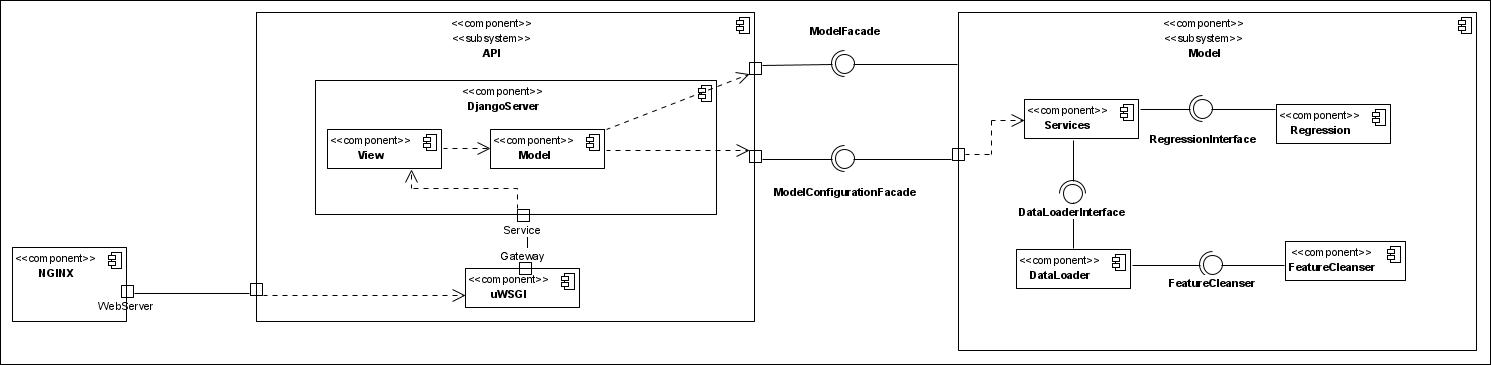
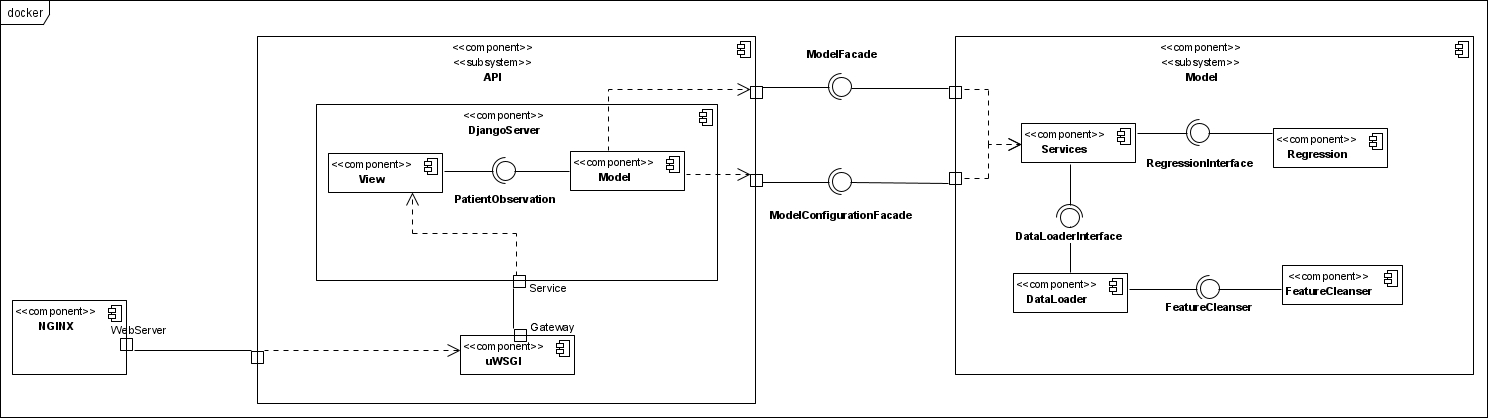
feat(read-me): add uml models to README.md

diff --git a/README.md b/README.md
@@ -1,1 +1,141 @@
-# Lab6-Docker
+# آزمایش ششم: استفاده از Docker
+## شرح آزمایش
+در این آزمایش قصد داریم نحوه کار با
+Docker
+به عنوان یک ابزار 
+Orchestration
+و
+Deployment
+را بیاموزیم. به این منظور یک نیازمندی تعریف کرده، و برای آن یک سیستم نرمافزاری میکروسرویس ایجاد میکنیم.
+
+## تحلیل نیازمندیها
+درمانگاهی یک مدل یادگیری ماشین روی دادههای دیابت بیماران درخواست کرده است.
+قرار است همه روزه نتیجه آزمایش چندین بیمار در این سیستم ثبت شود و سیستم در طول زمان به یادگیری دادههای بیماران ادامه دهد.\
+همچنین لازم است سیستم قابلیت پیشبینی نتیجه آزمایش بیمار را داشته باشد تا پزشکان درمانگاه گاها پیش از آماده شدن نتیجه اصلی آزمایش، از پیشبینی مدل یادگیری ماشین استفاده کنند.\
+تمام ارتباطات با این سیستم باید از طریق یک
+RESTfull API
+محقق شود و نیازی به طراحی و ایجاد یک کارخواهِ
+Front-End
+برای این سیستم نیست چرا که قرار است زیرسیستم
+Front-End
+برون سپاری شود. سیستم باید دارای یک load-balancer معقول باشد تا در زمانهای پیک مراجعین، دسترسی پذیری دچار آسیب نشود.
+## طراحی سیستم نرمافزاری
+به منظور ایجاد معماری سیستم از یک نگاه بالا به پایین
+(Top-Down)
+استفاده میکنیم. به این منظور ابتدا یک نمودار استقرار طراحی میکنیم سپس ذیل گرههای نمودار استقرار، نمودار مولفه سیستم را طراحی خواهیم کرد.\
+### نمودار استقرار
+ابتدا یک گره به منظور فراهم آوردن
+RESTfull API
+خواسته شده قرار میدهیم. این گره را پشتِ
+NGINX
+که یک
+Load-balancing WebServer
+قرار میدهیم.
+همچنین به منظور آنکه دادههای بیماران به صورت مانا
+(Persistent)
+حفظ شود، گرهی
+API
+را در ارتباط با یک دیتابیس
+PostgreSQL
+قرار میدهیم.
+
+
+![deployment diagram part 1](<./resources/deployment_diagram_pt1.png>)
+
+همانطور که قابل مشاهده است از گرهی
+API
+دو نسخه به صورت همزمان مستقر شده است و تقسیمکنندهی بارِ
+NGINX
+با سیاست 
+least_conn
+بار را بین این دو نسخه تقسیم میکند (طبق این سیاست، هر درخواست از کارگزار، به نسخهای داده میشود که در لحظه در حال خدمترسانی به تعداد کمتری درخواست باشد). همچنین این گرهی
+API
+با استفاده از چارچوب
+Django
+پیادهسازی شده است.\
+پس از آن، یک مدل یادگیری ماشین رگرسیون خطی نیاز است که دادههای بیماران را رفته رفته یاد گرفته و برای پیشبینی دیابت نیز استفاده شود.
+
+
+![deployment diagram part 2](./resources/deployment_diagram_pt2.png)
+این مدل با پایتون ایجاد شده است و نحوه خدمت گرفتن از آن از طریق یک واسطِ پیامِ
+RabbitMQ
+محقق میشود. به این شکل گرهی
+API
+با کمترین اتصالات
+(Coupling)
+با مدلِ یادگیری ماشین ارتباط خواهد گرفت.
+
+**در ادامه تصویر کلیِ نمودار استقرار را مشاهده خواهید کرد.**
+
+
+![deployment diagram](./resources/deployment_diagram.jpg)
+
+دو مولفهی زیرسیستم
+(Subsystem، به معنی بالا-رده ترین مولفهی نرمافزاری که روی گرهی استقرار میشیند. شایان توجه است که به دلیل ساختار تو در تو داشتن نمودار مولفه، چنین تعریفی کاربردی است.)
+که در نمودار استقرار قابل مشاهدهاند، زیرسیستم
+API
+و
+Model
+میباشند که آنها را در **نمودار مولفه** بررسی میکنیم.
+### نمودار مولفه
+
+در ادامه نمودار مولفه ایجاد شده ذکر میشوند که درک تدقیق شدهای از پیادهسازی سیستم نرمافزاری به ما میدهد.
+
+مولفهی مدل از زیرمولفههای زیر تشکیل شده است.
+- Regression: مدل رگرسیون که به منظور یادگیری دادههای دیابت استفاده خواهد شد.
+- DataLoader: مولفه بارگذاری داده روی مدلهای یادگیری ماشین.
+- FeatureCleanser: مولفه پاکسازی و تنظیم فیچرهای یادگیری ماشین.
+- Services: مولفهای که مولفههای دیگر را کنار هم میگذارد و خدمات مورد نیاز برای یادگیری و پیشبینی بیماران دیابتی را فراهم میآورد.
+
+این مولفه دو واسط برای خدمات گیری به نام
+ModelFacade
+و
+ModelConfigurationFacade
+ارائه میدهد. نمای اول به منظور درخواستِ یادگیری و پیشبینی مدل استفاده میشود و نمای دوم به منظور تنظیم
+Hyperparameter
+های مدل استفاده خواهد شد.\
+این نما
+(facade)
+ها با استفاده از پکیج
+[nameko](https://www.nameko.io/)
+ایجاد شدهاند و استفاده از متدهای آنها در واقع با روش
+RPC (Remote procedure call)
+و از طریق واسطِ پیامِ
+RabbitMQ
+ممکن خواهد بود.
+
+![component diagram part 1](./resources/component_diagram_pt1.png)
+
+در ادامه مولفهی
+API
+را خواهیم داشت که ذیل خود یک مولفه
+DjangoServer
+و یک مولفهی
+uWSGI
+خواهد داشت.
+مولفهی
+uWSGI
+به عنوان
+Gateway
+پایتونی ما عمل خواهد کرد و درخواستها و پاسخهای سرور را به سمت مولفهی بیرونیِ
+NGINX
+رد میکند.\
+همچنین مولفهی
+API
+از طریق زیر مولفهی
+Model
+درون خود، از واسطهای زیرسیستم
+Model (شامل مدل یادگیری ماشین)،
+که این واسطها همان
+ModelFacade
+و
+ModelConfigurationFacade
+هستند استفاده میکند.
+
+![component diagram part 2](./resources/component_diagram_pt2.png)
+
+**در ادامه تصویر کلیِ نمودار مولفه را مشاهده خواهید کرد.**
+
+![component diagram](./resources/component_diagram.jpg)
+
+## اجرای سیستم
